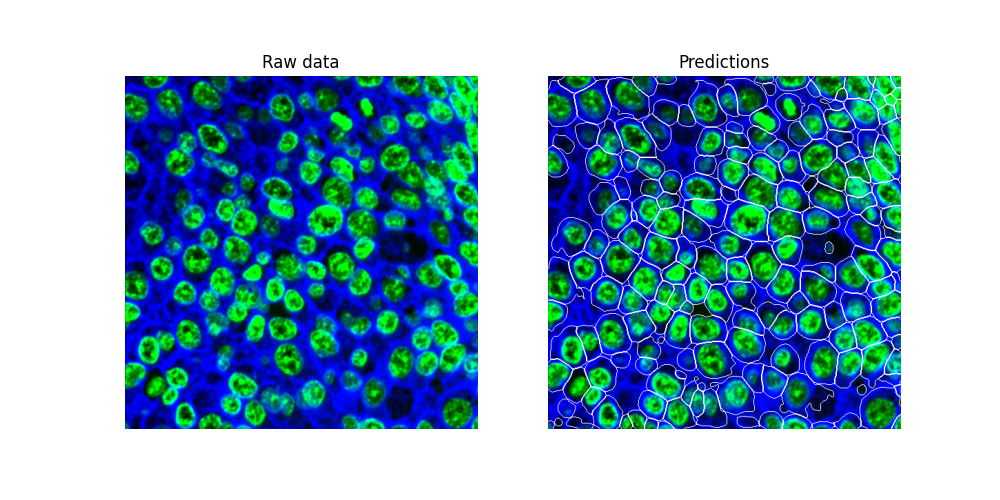
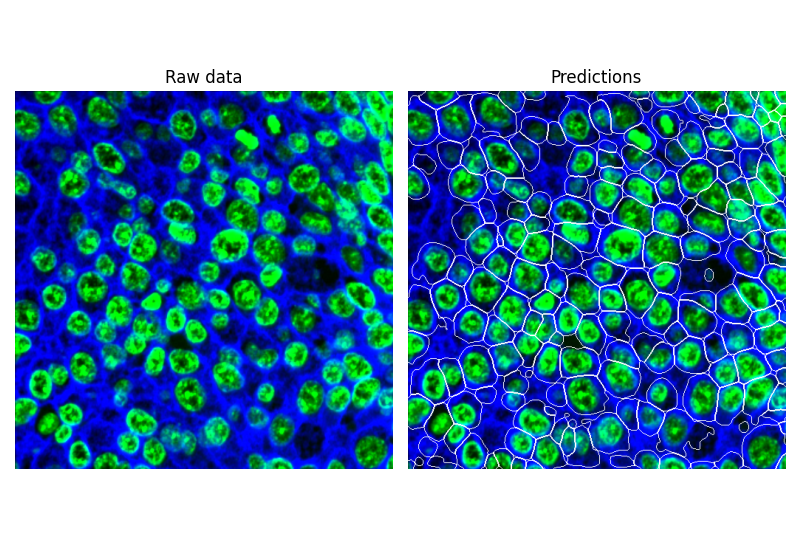
DOC: Increase gallery thumbnail size (#695)
* Custom CSS for larger gallery thumbnails.

* Add missing mesmer app thumbnail.

* Spruce up mesmer thumbnail (tight layout).

* Force image rendering inside thumbnails w/ rel borders.

diff --git a/docs/source/_static/custom_thumbnails.css b/docs/source/_static/custom_thumbnails.css
@@ -1,0 +1,17 @@
+.sphx-glr-thumbcontainer {
+    min-height: 320px !important;
+    margin: 20px !important;
+}
+.sphx-glr-thumbcontainer img {
+    max-height: 280px !important;
+    max-width: 100% !important;
+}
+.sphx-glr-thumbcontainer .figure {
+    width: 400px !important;
+}
+.sphx-glr-thumbcontainer a.internal {
+    padding: 270px 10px 0 !important;
+}
+.sphx-glr-thumbnails {
+    grid-template-columns: repeat(auto-fill, minmax(280px, 1fr)) !important;
+}

diff --git a/docs/source/conf.py b/docs/source/conf.py
@@ -126,7 +126,8 @@ html_theme = 'sphinx_rtd_theme'
 # Add any paths that contain custom static files (such as style sheets) here,
 # relative to this directory. They are copied after the builtin static files,
 # so a file named "default.css" will overwrite the builtin "default.css".
-# html_static_path = ['_static']
+html_static_path = ['_static']
+html_css_files = ["custom_thumbnails.css"]
 
 # Custom sidebar templates, must be a dictionary that maps document names
 # to template names.

diff --git a/docs/source/applications/mesmer.py b/docs/source/applications/mesmer.py
@@ -13,6 +13,7 @@ from matplotlib import pyplot as plt
 
 from deepcell.datasets import TissueNetSample
 from deepcell.utils.plot_utils import create_rgb_image, make_outline_overlay
+# sphinx_gallery_thumbnail_path = '../images/mesmer-wc.png'
 
 # %%
 
